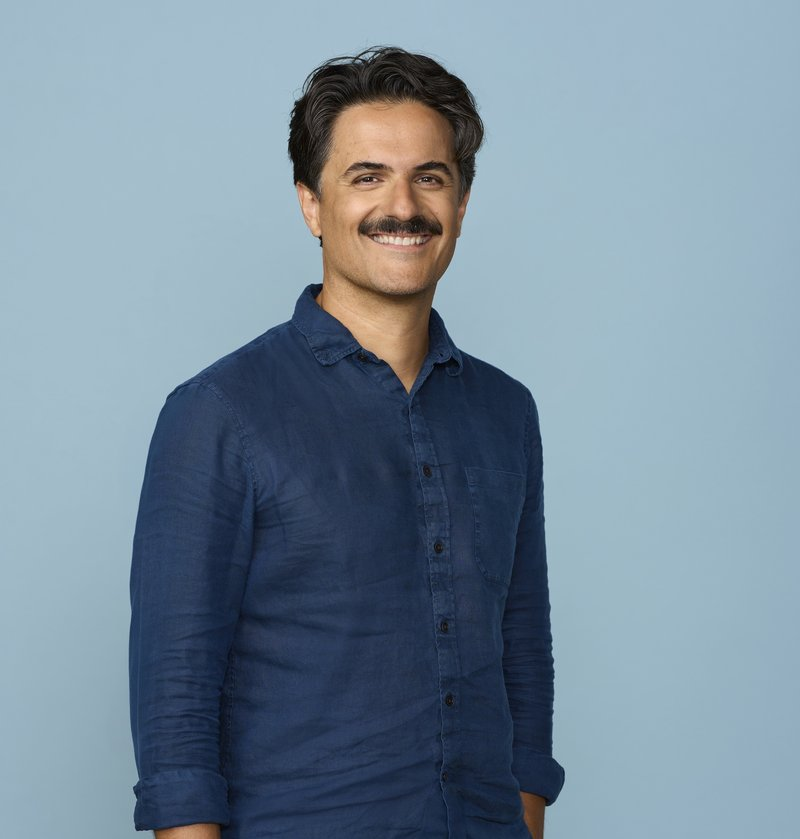
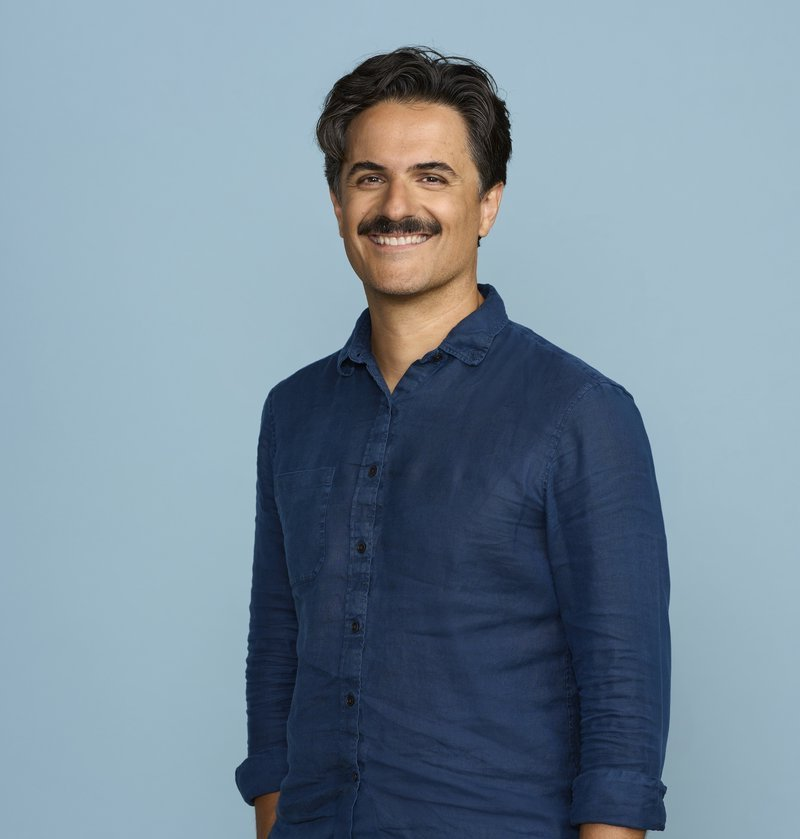
Flip headshot; drop Twitter under photo; Extracurriculars at /extracurriculars/ (redirect from /photography/); Greek theme wording; Mehdi and Mehrab PhD candidates; IFT 6169 in Winter 2027

Changed region(s): [[0.1562, 0.031, 0.8438, 1.0]]

diff --git a/pages/el.html b/pages/el.html
@@ -41,7 +41,7 @@ description: "Γιάννης Μητλιάγκας (Ioannis Mitliagkas), αναπ
 <div class="prose">
   <p>Η ομάδα μου εργάζεται σε τέσσερις κατευθύνσεις:</p>
   <ul>
-    <li><strong>Βελτιστοποίηση για τη σύγχρονη βαθιά μάθηση:</strong> γιατί λειτουργούν αλγόριθμοι όπως ο Adam, και πώς η εκπαίδευση γίνεται ταχύτερη και πιο σταθερή (μέγεθος παρτίδας, sign methods και φασματικές μέθοδοι, κατανεμημένη και ασύγχρονη εκπαίδευση).</li>
+    <li><strong>Βελτιστοποίηση για τη σύγχρονη μηχανική μάθηση (machine learning, deep learning):</strong> γιατί λειτουργούν αλγόριθμοι όπως ο Adam, και πώς η εκπαίδευση γίνεται ταχύτερη και πιο σταθερή (μέγεθος παρτίδας, sign methods και φασματικές μέθοδοι, κατανεμημένη και ασύγχρονη εκπαίδευση).</li>
     <li><strong>Γενίκευση εντός και εκτός κατανομής και συνθετικότητα:</strong> μοντέλα που συνεχίζουν να λειτουργούν όταν αλλάζουν τα δεδομένα.</li>
     <li><strong>Ιδιωτικότητα και «απομάθηση» (machine unlearning):</strong> αφαίρεση της επίδρασης δεδομένων από εκπαιδευμένα μοντέλα, με εγγυήσεις.</li>
     <li><strong>Δυναμική παιγνίων και ενισχυτική μάθηση:</strong> βελτιστοποίηση min-max, μεταβλητικές ανισότητες και η δυναμική της μάθησης σε συστήματα πολλών πρακτόρων.</li>
@@ -57,5 +57,5 @@ description: "Γιάννης Μητλιάγκας (Ioannis Mitliagkas), αναπ
   <p>Σπούδασα Ηλεκτρονικός Μηχανικός και Μηχανικός Υπολογιστών στο Πολυτεχνείο Κρήτης (δίπλωμα και μεταπτυχιακό), και έκανα το διδακτορικό μου στο University of Texas at Austin. Πριν έρθω στο Μόντρεαλ ήμουν μεταδιδακτορικός ερευνητής στο Stanford.</p>
   <p>Πέρασα τα χειμερινά εξάμηνα του 2024 και του 2025 σε σαββατική άδεια στο ερευνητικό κέντρο <a href="https://archimedesai.gr/en/researchers">«Αρχιμήδης»</a> στην Αθήνα.</p>
   <p>Επιβλέπω μια ομάδα διδακτορικών και μεταπτυχιακών φοιτητών· οι απόφοιτοί μας εργάζονται σήμερα ως καθηγητές (Johns Hopkins, Emory) και ερευνητές (Google DeepMind, Meta, Microsoft Research, NVIDIA). Δείτε την <a href="{{ '/group/' | relative_url }}" hreflang="en">ομάδα</a>.</p>
-  <p>Στο Τέξας ίδρυσα το ρεμπέτικο συγκρότημα Πατζάρια Σκορδαλιά, και στο Μόντρεαλ υπήρξα αιρετό μέλος του διοικητικού συμβουλίου της <a href="https://www.ergatikos-montreal.ca/en/home/">Association des travailleurs grecs du Québec</a> (Σύλλογος Ελλήνων Εργατών του Κεμπέκ). Περισσότερα στη σελίδα <a href="{{ '/photography/' | relative_url }}" hreflang="en">Extracurriculars</a>.</p>
+  <p>Στο Τέξας ίδρυσα το ρεμπέτικο συγκρότημα Πατζάρια Σκορδαλιά, και στο Μόντρεαλ υπήρξα αιρετό μέλος του διοικητικού συμβουλίου της <a href="https://www.ergatikos-montreal.ca/en/home/">Association des travailleurs grecs du Québec</a> (Σύλλογος Ελλήνων Εργατών του Κεμπέκ). Περισσότερα στη σελίδα <a href="{{ '/extracurriculars/' | relative_url }}" hreflang="en">Extracurriculars</a>.</p>
 </div>

diff --git a/index.html b/index.html
@@ -21,7 +21,6 @@ description: "Ioannis Mitliagkas (Γιάννης Μητλιάγκας), Associat
       <a href="{{ '/cv.pdf' | relative_url }}">CV</a>
       <a href="mailto:{{ site.email }}">Email</a>
       <a href="{{ site.links.scholar }}">Scholar</a>
-      <a href="{{ site.links.twitter }}">Twitter</a>
     </div>
   </figure>
 </section>
@@ -79,7 +78,7 @@ description: "Ioannis Mitliagkas (Γιάννης Μητλιάγκας), Associat
 </div>
 <div class="prose">
   <p>Researcher in machine learning. Academic, immigrant, amateur musician, runner.</p>
-  <p>Every fall, I teach <a href="{{ '/ml-class-fr/' | relative_url }}">Fundamentals of Machine Learning</a> (IFT 3395/6390, in French) to a large class of undergraduate and graduate students. I have also taught an advanced research class on <a href="{{ '/ift6085-dl-theory-class/' | relative_url }}">deep learning theory</a>.</p>
+  <p>Every fall, I teach <a href="{{ '/ml-class-fr/' | relative_url }}">Fundamentals of Machine Learning</a> (IFT 3395/6390, in French) to a large class of undergraduate and graduate students. In winter 2027 I am teaching my advanced research class on <a href="{{ '/ift6085-dl-theory-class/' | relative_url }}">deep learning theory</a> (IFT 6169) again.</p>
   <p>I co-founded and hosted the first two seasons of <a href="https://mtl-mlopt.github.io/">MTL MLOpt</a>, a bi-weekly meeting of optimization experts from Mila, UdeM, McGill (CS and math), Google DeepMind, SAIL, FAIR and MSR. We share our <a href="https://youtube.com/playlist?list=PLqrJF7iQbscALPio49SSil8XDbfNAlOTO">guest speaker videos</a>.</p>
   <p>In the early days of interest in the area, I co-organized the <a href="https://sgo-workshop.github.io/">Smooth Games Optimization and ML</a> workshop series at NeurIPS. The <a href="https://slideslive.com/38924034/opening-remarks?ref=speaker-22001-latest">opening remarks</a> from NeurIPS 2019 summarize our motivation. In spring 2022 I was invited to the <a href="https://simons.berkeley.edu/programs/games2022">semester on Learning and Games</a> at the Simons Institute, Berkeley. For several summers I taught optimization for ML at the <a href="https://deeplearning.neuromatch.io/tutorials/W1D5_Optimization/student/W1D5_Tutorial1.html">Neuromatch Academy deep learning course</a>.</p>
   <p>Before joining the Université de Montréal, I was a postdoc with the Departments of Computer Science and Statistics at Stanford University, and a PhD student at The University of Texas at Austin.</p>

diff --git a/UPDATING.md b/UPDATING.md
@@ -20,7 +20,7 @@ Most content is data. Edit the YAML file; every page that uses it updates.
 | Photo gallery | `_data/gallery.yml` | Extracurriculars |
 | Recruiting notice, nav, profile links | `_config.yml` | Home, header, footer |
 
-Prose pages: `index.html` (bio), `pages/*.html`, `photography.md`, course pages
+Prose pages: `index.html` (bio), `pages/*.html`, `extracurriculars.md`, course pages
 (`ml-class*.md`, `dl-theory-class*.md`). Images go in `images/`; student photos are
 400×400 `images/person-<name>.jpg`.
 

diff --git a/dl-theory-class.md b/dl-theory-class.md
@@ -8,7 +8,7 @@ permalink: /ift6085-dl-theory-class/
 IFT 6169: Theoretical principles for deep learning
 =========
 
-**THIS CLASS IS NOT OFFERED IN WINTER 2024** 
+**Offered again in Winter 2027 (IFT 6169). Details for the new edition will be posted here.**
 
 
 Description

diff --git a/extracurriculars.md b/extracurriculars.md
@@ -1,7 +1,9 @@
 ---
 layout: page
 title: Extracurriculars
-permalink: /photography/
+permalink: /extracurriculars/
+redirect_from:
+  - /photography/
 show_title: true
 ---
 
